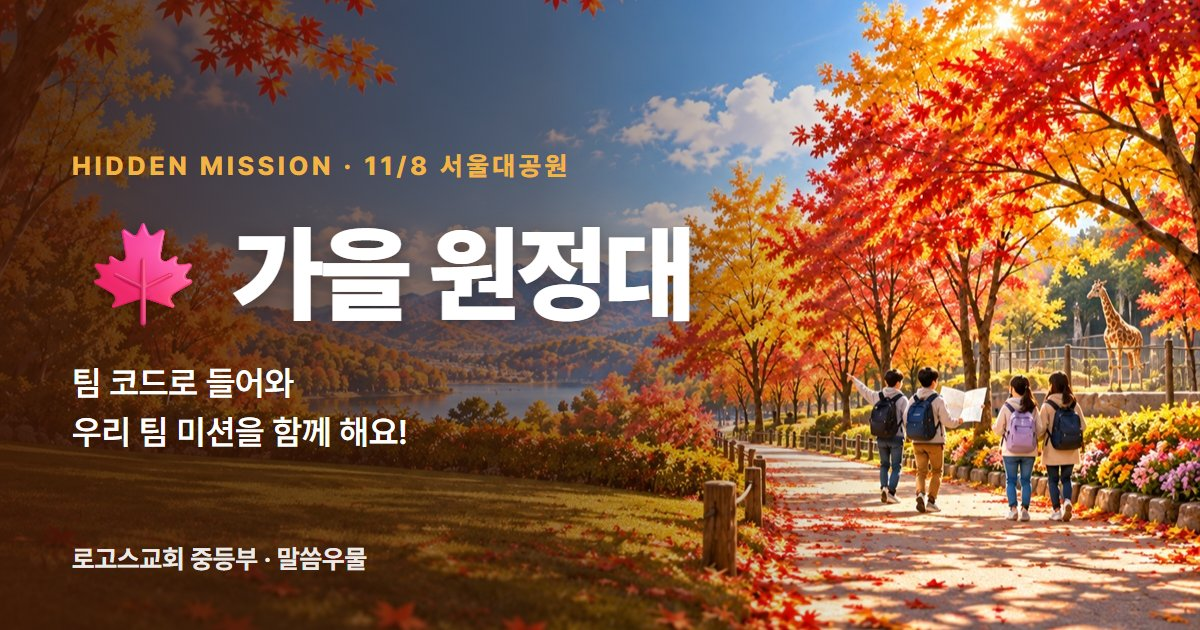
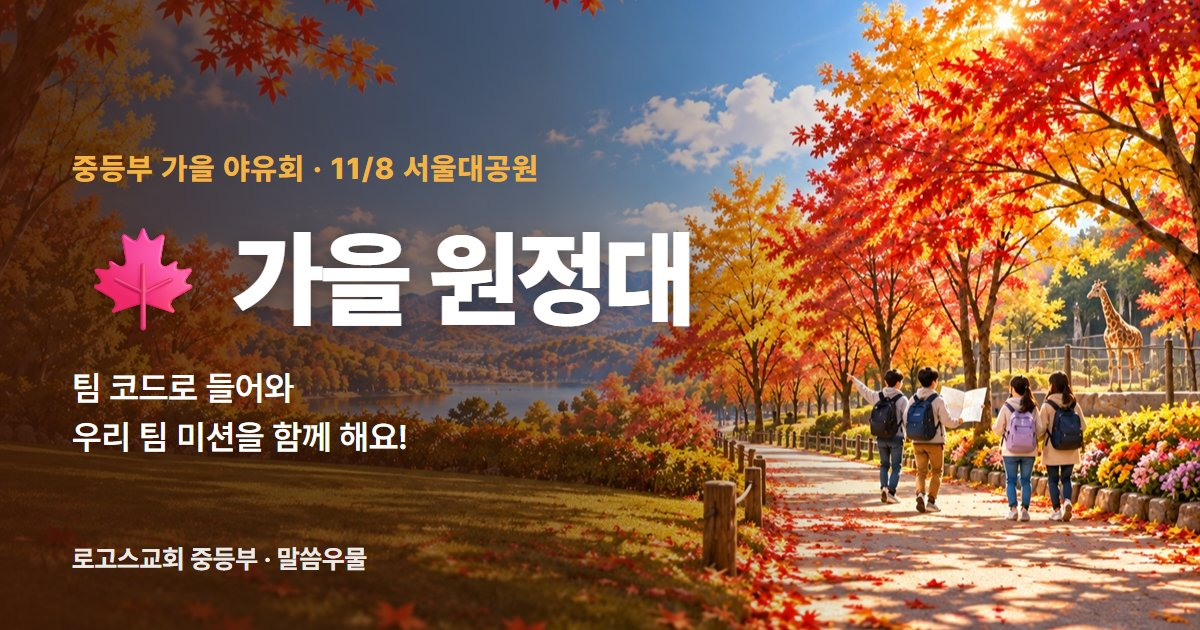
가을 원정대: 작은 제목을 「중등부 가을 야유회 · 11/8 서울대공원」으로 통일
Claude-Session: https://claude.ai/code/session_01NYKVJXya5oZd3tEBTiuKGb

diff --git a/expedition.html b/expedition.html
@@ -42,7 +42,7 @@
   .hero .kicker, .hero p, .hero .back { text-shadow: 0 1px 6px rgba(0,0,0,.45); }
   .hero > * { position: relative; z-index: 1; }
   .hero .back { color: #fff; opacity: .85; text-decoration: none; font-size: 13px; }
-  .hero .kicker { margin-top: 18px; font-size: 12px; font-weight: 800; letter-spacing: .16em; color: var(--gold); }
+  .hero .kicker { margin-top: 18px; font-size: 13px; font-weight: 800; letter-spacing: .04em; color: var(--gold); }
   .hero h1 { margin: 2px 0 4px; font-size: 38px; font-weight: 900; letter-spacing: .02em; text-shadow: 0 2px 10px rgba(0,0,0,.3); }
   .hero p { margin: 0; font-size: 14px; opacity: .92; }
 
@@ -123,7 +123,7 @@
   .lock .cd { font-size: 34px; font-weight: 900; color: var(--rust); font-variant-numeric: tabular-nums; margin: 6px 0; }
   .mission { border-radius: 18px; padding: 18px 16px; margin-top: 12px; color: #fff; background: linear-gradient(150deg, #2f6b4f, #173b2c); }
   .mission.m2 { background: linear-gradient(150deg, #e0812a, #b8481f); }
-  .mission .tag { font-size: 11px; font-weight: 900; letter-spacing: .16em; color: var(--gold); }
+  .mission .tag { font-size: 11px; font-weight: 900; letter-spacing: .06em; color: var(--gold); }
   .mission h3 { margin: 4px 0 8px; font-size: 20px; }
   .mission p { margin: 0 0 10px; font-size: 14px; opacity: .95; }
   .mission .clue { background: rgba(255,255,255,.14); border-radius: 12px; padding: 10px 12px; margin-top: 8px; font-size: 14px; }
@@ -176,7 +176,7 @@
 <main>
   <header class="hero" id="hero">
     <a class="back" href="play.html">‹ 말씀놀이터</a>
-    <div class="kicker">HIDDEN MISSION · 11/8 서울대공원</div>
+    <div class="kicker">중등부 가을 야유회 · 11/8 서울대공원</div>
     <h1>🍁 가을 원정대</h1>
     <p>우리 팀과 함께 하나님이 지으신 것들을 찾아 떠나요!</p>
   </header>

diff --git a/play.html b/play.html
@@ -34,7 +34,7 @@
   <!-- 가을 원정대 (11/8 중등부 가을 야유회 미션) — 10/25 10:30~11/15에만 보인다(관리자 계정은 그 전에도). 그 전에는 팀 코드로 들어와 본 휴대폰에만 -->
   <div class="feature-card" id="expeditionCard" style="display:none;background-image:linear-gradient(150deg,#e0812a 0%,#b8481f 60%,#6e2a10 100%);box-shadow:0 14px 30px rgba(184,72,31,.28);margin-bottom:16px;">
     <img class="fc-art" src="assets/picnic/card.png" alt="" onerror="this.remove()">
-    <p class="fc-kicker" style="color:#f2b544;opacity:1;">HIDDEN MISSION · 11/8 서울대공원</p>
+    <p class="fc-kicker" style="color:#f2b544;opacity:1;">중등부 가을 야유회 · 11/8 서울대공원</p>
     <h2>🍁 가을 원정대</h2>
     <p>팀 코드로 들어와서<br>우리 팀 미션을 함께 해요!</p>
     <a href="expedition.html" class="pill-lime" style="background:#f2b544;color:#3a1d07;">원정 떠나기 ›</a>
